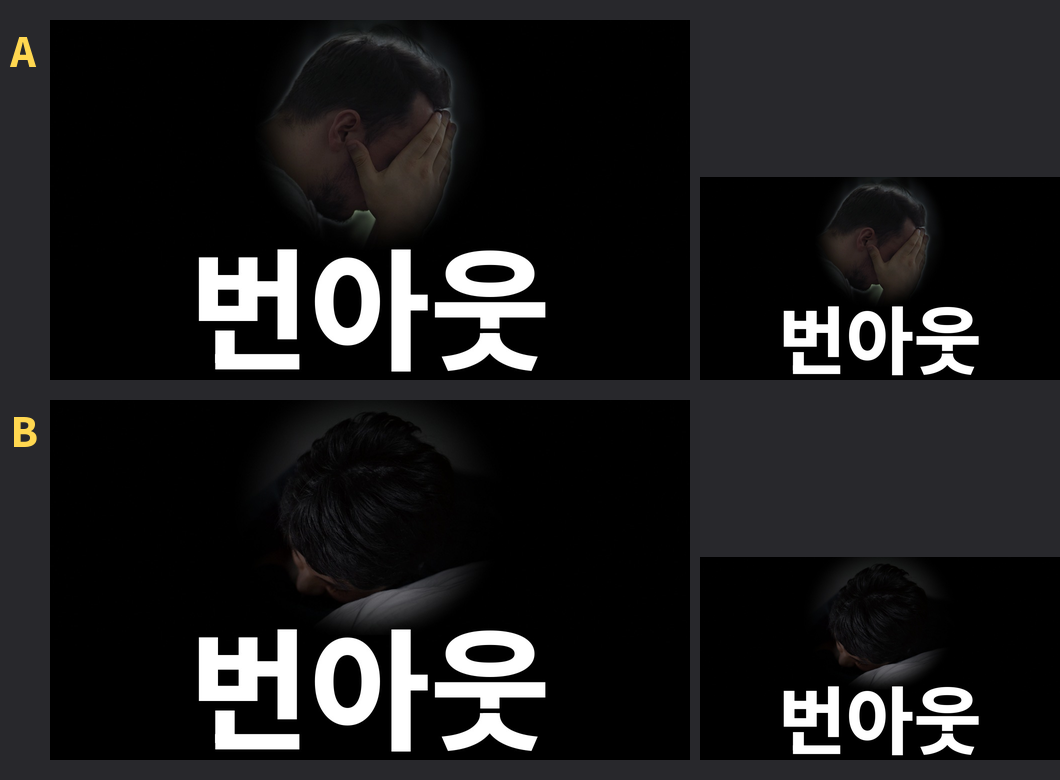
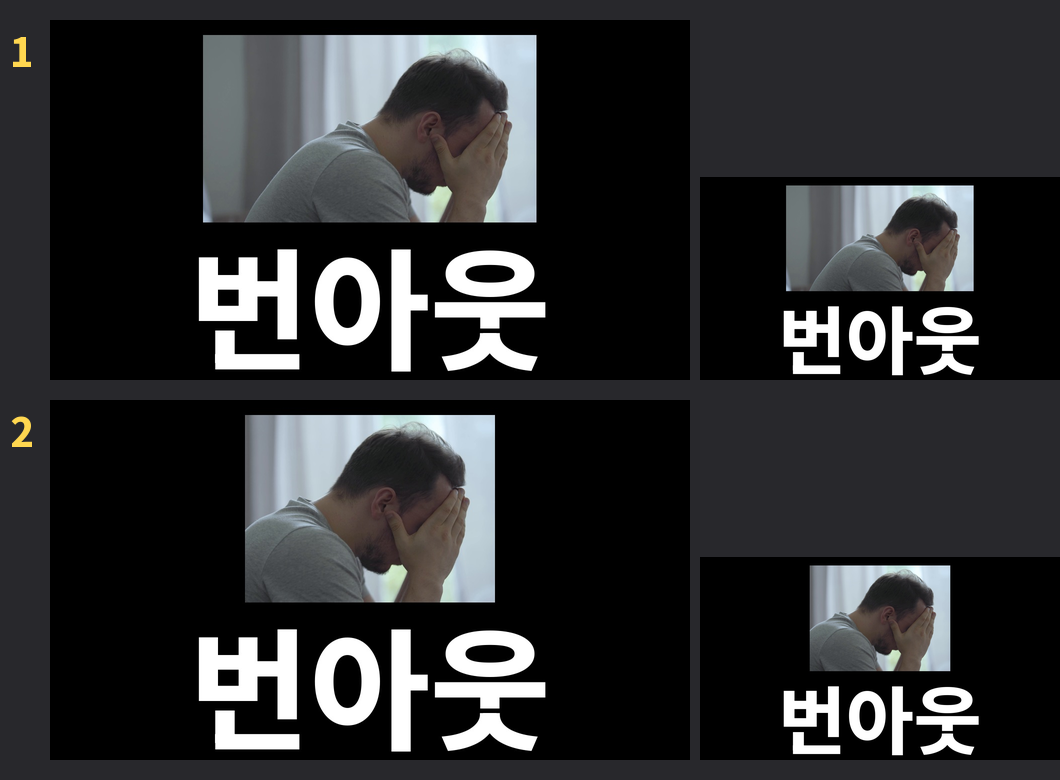
썸네일: 그림은 효과 없이 원본 그대로 (사용자 지시), 목소리 복제 조사 기록
- thumb.py: 가장자리 검게 녹이기·아래쪽 사라지기·어둡게 보정·노이즈를 빼고 원본 그림을 사각형으로 붙임(--top/--bottom), 비교 시트 번호(--labels)
- 시안: 1 원본 화면 전체(16:9), 2 사람 중심 4:3(추천). 이전 효과 시안은 삭제(커밋 8e035d4에 남음)
- HANDOFF_VIDEO.md: 18장에 효과 없음 규칙 반영, 19장 운영자 목소리 복제 조사(검토 중) 추가

Claude-Session: https://claude.ai/code/session_01EsiSLBYHgBfcisVVmTEd5s

diff --git a/video/burnout/scripts/thumb.py b/video/burnout/scripts/thumb.py
@@ -1,24 +1,23 @@
-# 「INFJ입니다.」 썸네일 (2026-10-22): 「F의 연애」 썸네일 틀을 그대로 따름(사용자 지시)
-# 검은 배경 + 위 두 칸(y 0~480)에 그림 하나(크게, 기울이지 않음)
+# 「INFJ입니다.」 썸네일 (2026-10-22): 「F의 연애」 썸네일 틀을 따름(사용자 지시)
+# 검은 배경 + 위 두 칸에 그림 하나(원본 그대로, 기울이지 않음)
 # + 아래 한 칸에 주제 단어 한 단어(흰색, Noto Sans KR 800, 262px, 바닥선 y=679, 글자 높이 240px 이상). 1280x720 JPG.
 # 가운데 그림: 좌절하거나 지친 사람(2026-10-22 사용자 지시). 얼굴은 보이지 않게(손으로 가림, 엎드림, 뒷모습, 실루엣).
-# 공통 함수(bottom_fade, put_word, finish, noto)는 「F의 연애」 thumb.py·thumb_chat.py와 같은 값입니다.
+# 그림에는 그라데이션·효과를 넣지 않음(2026-10-22 사용자 지시): 가장자리 검게 녹이기, 아래쪽 사라지기,
+# 어둡게 보정, 노이즈 없이 원본을 사각형 그대로 붙임. 주제 단어 함수(put_word)는 「F의 연애」와 같은 값입니다.
 #
 # usage (저장소 맨 위 폴더에서):
-#   thumb.py photo   OUT.jpg IMAGE --box x0,y0,x1,y1 [--word 번아웃] [--height 520] [--gamma 1.45] [--bg-dark 0~1]
-#       사진(무료 라이선스 스톡 영상의 한 장면, 검토 받은 AI 이미지)의 box 부분을 위 두 칸 가운데에 두고
-#       가장자리를 검게 녹임. --height: 그림 높이(사람과 글자 사이가 50px 이상 남게 조절)
-#       --bg-dark: 밝고 색이 옅은 배경(창문, 흰 벽)만 눌러 어두운 방처럼 만듦(피부색은 유지)
-#   thumb.py preview SHEET.png A.jpg B.jpg ...
+#   thumb.py photo   OUT.jpg IMAGE --box x0,y0,x1,y1 [--word 번아웃] [--top 30] [--bottom 405]
+#       사진(무료 라이선스 스톡 영상의 한 장면, 검토 받은 AI 이미지)의 box 부분을 원본 그대로
+#       y=top~bottom 높이에 맞춰 가로 가운데에 붙임. bottom은 글자 윗선(번아웃 459)보다 50px 이상 위
+#   thumb.py preview SHEET.png A.jpg B.jpg ... [--labels 1,2]
 #       시안마다 원래 크기 축소(640)와 휴대폰 피드 크기(가로 360)를 나란히 놓은 검토용 한 장
 # fonts/NotoSansKR-VF.ttf (OFL) 필요: setup.sh가 받습니다.
 import os, sys
-import numpy as np
 from PIL import Image, ImageDraw, ImageFilter, ImageFont
 
 ROOT = os.environ.get("VIDEO_ROOT", os.path.dirname(os.path.dirname(os.path.abspath(__file__))))
 FONT = f"{ROOT}/fonts/NotoSansKR-VF.ttf"
-W, H, S = 1280, 720, 2                                   # draw at 2x, then downsample
+W, H = 1280, 720
 COLORS = {"white": (255, 255, 255), "red": (230, 40, 48)}
 WORD_SIZE, WORD_BASE, WORD_WEIGHT = 262, 679, 800        # 「F의 연애」와 같음. "번아웃" 높이 246px, 너비 723px
 
@@ -28,15 +27,6 @@ def noto(weight, size):
     f = ImageFont.truetype(FONT, size)
     f.set_variation_by_axes([weight])
     return f
-
-
-def bottom_fade(img, y0, y1):
-    """Fade the picture to black from y0 to y1 so the word sits on black."""
-    a = np.asarray(img, np.float32)
-    g = np.clip((np.arange(img.height, dtype=np.float32) - y0) / (y1 - y0), 0, 1)
-    g = g * g * (3 - 2 * g)
-    a *= (1 - g)[:, None, None]
-    return Image.fromarray(a.round().astype(np.uint8), "RGB")
 
 
 def put_word(img, word, color="white"):
@@ -50,49 +40,20 @@ def put_word(img, word, color="white"):
     return img
 
 
-def finish(img):
-    """Edges fall off to black (dark room), faint noise, downsample to 1280x720."""
-    CW, CH = img.size
-    a = np.asarray(img, np.float32)
-    yy, xx = np.mgrid[0:CH, 0:CW].astype(np.float32)
-    r = np.sqrt(((xx - 0.50 * CW) / (0.64 * CW)) ** 2 + ((yy - 0.38 * CH) / (0.64 * CH)) ** 2)
-    v = np.clip(1 - (r - 0.62) / 0.45, 0, 1)
-    a *= (v * v * (3 - 2 * v))[..., None]
-    a += np.random.default_rng(3).normal(0, 1.2, a.shape)
-    return Image.fromarray(np.clip(a, 0, 255).astype(np.uint8)).resize((W, H), Image.LANCZOS)
-
-
-def make_photo(src, box, height=520, gamma=1.45, top=0, bg_dark=0.0):
-    """Part of a photo (box) centred in the top area; edges melt into black, colours muted, mids darker.
-    bg_dark (0~1): also press down bright, colourless areas (window, white wall) so a bright stock scene
-    reads as a dark room; skin keeps its colour."""
+def place_photo(src, box, top=30, bottom=405):
+    """The picture as is (no gradient, no effects): crop `box`, scale to the height top~bottom, centre on black."""
     im = Image.open(src).convert("RGB").crop(box)
-    sc = height / im.height
-    im = im.resize((round(im.width * sc), height), Image.LANCZOS)
-    a = np.asarray(im, np.float32) / 255
-    lum = a @ np.array([0.2126, 0.7152, 0.0722], np.float32)
-    if bg_dark:
-        sat = (a.max(2) - a.min(2)) / (a.max(2) + 1e-6)
-        sm = lambda x: (lambda c: c * c * (3 - 2 * c))(np.clip(x, 0, 1))
-        m = sm((lum - 0.45) / 0.30) * (1 - sm((sat - 0.08) / 0.17))
-        m = np.asarray(Image.fromarray((m * 255).astype(np.uint8)).filter(ImageFilter.GaussianBlur(6)), np.float32) / 255
-        a *= (1 - bg_dark * m)[..., None]
-        lum = a @ np.array([0.2126, 0.7152, 0.0722], np.float32)
-    a = lum[..., None] + (a - lum[..., None]) * 0.85
-    a = np.clip(a, 0, 1) ** gamma
-    h, w = lum.shape
-    yy, xx = np.mgrid[0:h, 0:w].astype(np.float32)
-    r = np.sqrt(((xx - w / 2) / (w * 0.50)) ** 2 + ((yy - h * 0.45) / (h * 0.56)) ** 2)
-    v = np.clip(1 - (r - 0.55) / 0.50, 0, 1)                         # wide soft oval, melts into black
-    a *= (v * v * (3 - 2 * v))[..., None]
+    h = bottom - top
+    im = im.resize((round(im.width * h / im.height), h), Image.LANCZOS)
+    if im.width > W:
+        sys.exit(f"picture is {im.width}px wide (> {W}): use a narrower --box")
     canvas = Image.new("RGB", (W, H), (0, 0, 0))
-    canvas.paste(Image.fromarray((np.clip(a, 0, 1) * 255).round().astype(np.uint8)), ((W - w) // 2, top))
-    big = canvas.resize((W * S, H * S), Image.LANCZOS)
-    return finish(big)
+    canvas.paste(im, ((W - im.width) // 2, top))
+    return canvas
 
 
-def preview(sheet, files):
-    """Each draft at 640 px next to the phone-feed size (360 px), with its letter."""
+def preview(sheet, files, labels=None):
+    """Each draft at 640 px next to the phone-feed size (360 px), with its label (A, B, C... by default)."""
     lab = noto(800, 40)
     out = Image.new("RGB", (640 + 360 + 60, len(files) * 380 + 20), (40, 40, 44))
     d = ImageDraw.Draw(out)
@@ -101,7 +62,7 @@ def preview(sheet, files):
         y = 20 + i * 380
         out.paste(im.resize((640, 360), Image.LANCZOS), (50, y))
         out.paste(im.resize((360, 203), Image.LANCZOS), (50 + 640 + 10, y + 157))
-        d.text((10, y), chr(ord("A") + i), font=lab, fill=(255, 215, 80))
+        d.text((10, y), labels[i] if labels else chr(ord("A") + i), font=lab, fill=(255, 215, 80))
     out.save(sheet)
 
 
@@ -110,12 +71,12 @@ if __name__ == "__main__":
     opt = lambda k, dflt: a[a.index(k) + 1] if k in a else dflt
     mode, out = a[0], a[1]
     if mode == "preview":
-        preview(out, a[2:]); print(out); sys.exit()
+        files = [x for x in a[2:] if x != "--labels" and x != opt("--labels", None)]
+        labels = opt("--labels", None)
+        preview(out, files, labels.split(",") if labels else None); print(out); sys.exit()
     if mode != "photo":
         sys.exit(f"unknown mode {mode}: use photo or preview")
     box = tuple(int(v) for v in opt("--box", "0,0,1920,1080").split(","))
-    img = make_photo(a[2], box, int(opt("--height", "520")), float(opt("--gamma", "1.45")),
-                     bg_dark=float(opt("--bg-dark", "0")))
-    img = bottom_fade(img, 430, 560)
+    img = place_photo(a[2], box, int(opt("--top", "30")), int(opt("--bottom", "405")))
     put_word(img, opt("--word", "번아웃"), opt("--color", "white")).save(out, quality=93)
     print(out)

diff --git a/video/burnout/HANDOFF_VIDEO.md b/video/burnout/HANDOFF_VIDEO.md
@@ -24,7 +24,8 @@
 5. 사용자는 휴대폰으로 봅니다. 답은 짧게, 결론부터, 정중한 한국어로 씁니다.
 6. 스톡 사진·영상이 부적절하거나 어색한 장면은 AI 이미지로 직접 만들고, 영상에 넣기 전에 사용자 검토를 받습니다(15장).
 7. 사례 구간(⑥)의 감자 캐릭터는 다음 세션에서 사용자와 함께 만듭니다(16장). 혼자 정해서 만들지 않습니다.
-8. 썸네일은 「F의 연애」 썸네일 틀로 만들고, 가운데 그림은 좌절하거나 지친 사람(얼굴이 보이지 않게)입니다(18장).
+8. 썸네일은 「F의 연애」 썸네일 틀로 만들고, 가운데 그림은 좌절하거나 지친 사람(얼굴이 보이지 않게)입니다. 그림에는 그라데이션이나 효과를 넣지 않고 원본 그대로 넣습니다(18장).
+9. 운영자 목소리를 학습한 AI로 완전 자동화하는 방안을 검토 중입니다. 조건은 '진짜 내 목소리 같고 AI 티가 안 날 것'입니다(19장, 결정 전).
 
 ---
 
@@ -45,7 +46,7 @@
 9. 참고 결과물(저장소 episodes/burnout/)
    - sample30/burnout_30s_stock_example.mp4: 확정된 방식의 기준 예시, 31.6초
    - sample/burnout_hook_sample.mp4: 이전 방식(AI 이미지 + 임시 음성), 지금은 쓰지 않음
-10. 썸네일: 검은 배경, 위 두 칸에 좌절하거나 지친 사람(얼굴이 보이지 않게), 아래 한 칸에 흰 글씨 한 단어(18장)
+10. 썸네일: 검은 배경, 위 두 칸에 좌절하거나 지친 사람(얼굴이 보이지 않게, 그림은 효과 없이 원본 그대로), 아래 한 칸에 흰 글씨 한 단어(18장)
 
 ---
 
@@ -66,6 +67,8 @@
 9. 스톡 사진·영상이 부적절하거나 어색하면 AI 이미지로 직접 만들고 검토를 받습니다(2026-10-22). 절차는 15장입니다.
 10. 썸네일은 「F의 연애」 썸네일 방식으로 만들고, 첫 영상인 번아웃 편부터 적용합니다(2026-10-22). 18장입니다.
 11. 썸네일 가운데 그림은 좌절하고 있는 사람이나 지친 사람으로 합니다(2026-10-22).
+12. 썸네일 그림에는 그라데이션이나 효과를 넣지 않고 그림만 넣습니다(2026-10-22).
+13. 운영자 목소리를 학습시킨 AI로 완전 자동화를 해 보려 합니다. 복제 목소리는 진짜 운영자 목소리와 비슷하고 AI 티가 전혀 나지 않아야 합니다(2026-10-22). 도구는 아직 고르지 않았습니다(19장).
 
 ### 2-2. 답변 방식 (채널 핸드오프 1장)
 1. 정중한 존댓말 한국어로, 결론부터 씁니다.
@@ -565,17 +568,18 @@ Mixkit 파일 주소 형식
    - 채널 핸드오프 5-3의 '캐릭터 표정 + 4~8자 문구'
    - 번아웃 편의 이전 안(채널 핸드오프 10장 안의 7-1: 1안 "충전의 역설", 2안 "쉬어도 그대로")
    - 처음 만든 사물 시안(알람 목록, 배터리)은 보여 드리기 전에 2번 지시에 따라 바꿨습니다.
-4. 수치·점검·진행 순서는 「F의 연애」 썸네일 핸드오프를 그대로 따릅니다. 다른 점은 18-3의 가운데 그림입니다.
+4. 수치·점검·진행 순서는 「F의 연애」 썸네일 핸드오프를 따릅니다. 다른 점은 가운데 그림(18-3)과 그림 처리(5번)입니다.
+5. 그림에는 그라데이션이나 효과를 넣지 않고 그림만 넣습니다(같은 날 사용자 지시). 처음 시안의 가장자리 검게 녹이기·어둡게 보정은 이 지시로 뺐습니다.
 
 ### 18-2. 틀 (「F의 연애」 3장 수치)
 1. 1280×720 JPG, 검은 배경
-2. 화면 높이를 셋으로 나눈 위 두 칸(y 0~480)에 그림 하나를 크게, 기울이지 않고 둡니다.
+2. 화면 높이를 셋으로 나눈 위 두 칸에 그림 하나를 원본 그대로 사각형으로 둡니다. 기본 위치는 y=30~405, 가로 가운데입니다. 기울이지 않습니다.
 3. 아래 한 칸에 주제 단어 한 단어(2~3글자)
    - 흰색, Noto Sans KR 가변 글꼴 굵기 800, 262px, 가운데 정렬, 글자 바닥선 y=679
    - 글자 높이 240px 이상. "번아웃"은 높이 246px, 너비 723px이고 글자 윗선이 y=459입니다.
    - 글자 아래 그림자: 아래로 6px, 흐림 14px
    - 빨간색(230, 40, 48)도 고를 수 있지만 기본은 흰색입니다.
-4. 사진 아래쪽은 y=430~560에서 검게 사라지게 하고(「F의 연애」 사진 방식은 430~580), 가장자리는 어두운 방처럼 검게 감쌉니다. 노이즈는 아주 약하게만 넣습니다.
+4. 그림에는 그라데이션·효과를 넣지 않습니다. 가장자리 검게 녹이기, 아래쪽 사라지기, 어둡게 보정, 노이즈를 모두 쓰지 않습니다(「F의 연애」 3-1의 3·4번과 다른 점). 원본에서 쓸 부분을 자르고(--box) 크기만 맞춥니다.
 5. 그림 속 사람(머리·손 끝)과 글자 윗선 사이는 50px 이상 둡니다(「F의 연애」 6장 점검).
 6. 단어가 길어 글자를 줄여야 하면 높이 규칙과 부딪히므로 사용자에게 먼저 묻습니다(「F의 연애」 3-2).
 
@@ -585,7 +589,7 @@ Mixkit 파일 주소 형식
 2. 재료 순서
    1. Mixkit 무료(Free) 스톡 영상의 한 장면. 영상 페이지에서 라이선스를 확인합니다(5장).
    2. 스톡이 마땅치 않거나 어색하면 AI 이미지를 만들고 15장 절차로 검토를 받습니다. 사진풍 AI 이미지를 썸네일에 쓰면 업로드 때 '변경되거나 합성된 콘텐츠'를 '예'로 체크합니다(5-3).
-3. 창가나 흰 벽처럼 밝은 스톡 장면은 thumb.py의 --bg-dark로 밝고 색이 옅은 부분만 눌러 어두운 방처럼 만듭니다. 피부색은 유지됩니다.
+3. 그림을 보정하지 않으므로, 장면을 고를 때부터 사람이 크고 분명하게 보이는 장면을 고릅니다. 어두운 장면은 휴대폰 크기에서 알아보기 어렵습니다(51394 베개 장면이 그랬습니다).
 4. 2026-10-22에 라이선스를 확인한 스톡
    - Free: 4701(두 손으로 얼굴을 감싼 남성, 30초 예시에도 씀), 51394(어두운 방에서 베개에 얼굴을 묻은 사람, 32.0초 부근), 4500(바닥에서 무릎을 안은 여성. 사람이 작고 초점이 흐리며, 앞에 체중계가 있어 제외), 4513(쿠션을 안은 여성, 얼굴이 보여 제외)
    - Restricted(쓸 수 없음): 24055, 24063, 29961, 23288, 28748(모두 사무실에서 지친 사람)
@@ -594,11 +598,10 @@ Mixkit 파일 주소 형식
 
 ### 18-4. 만드는 법 (저장소 맨 위 폴더에서)
 1. 장면 한 장 뽑기: `ffmpeg -ss 1.4 -i work/stock/full/4701.mp4 -frames:v 1 work/f4701_1.4.png`
-2. 시안 만들기: `venv/bin/python scripts/thumb.py photo episodes/burnout/thumbnail/drafts/A_head_in_hands.jpg work/f4701_1.4.png --box 920,60,1900,1040 --height 460 --gamma 1.35 --bg-dark 0.85`
-   - --box: 원본에서 쓸 부분(사람이 가운데 오게)
-   - --height: 그림 높이(사람과 글자 사이 50px 이상이 되게)
-   - --gamma: 클수록 어둡습니다. 원래 어두운 장면은 0.95~1.1
-3. 검토용 한 장: `venv/bin/python scripts/thumb.py preview work/thumb_review.png A.jpg B.jpg C.jpg`
+2. 시안 만들기: `venv/bin/python scripts/thumb.py photo episodes/burnout/thumbnail/drafts/2_person_crop.jpg work/f4701_1.4.png --box 533,40,1920,1080`
+   - --box: 원본에서 쓸 부분(사람이 크게, 가운데 오게). 원본 전체는 0,0,1920,1080
+   - --top, --bottom: 그림이 놓일 높이(기본 30, 405). bottom은 글자 윗선(번아웃 459)보다 50px 이상 위
+3. 검토용 한 장: `venv/bin/python scripts/thumb.py preview work/thumb_review.png 1.jpg 2.jpg --labels 1,2`
 4. 점검
    - 1280×720인지, 글자 높이가 240px 이상인지
    - 사람과 글자 사이가 50px 이상인지
@@ -610,10 +613,58 @@ Mixkit 파일 주소 형식
 ### 18-5. 번아웃 편 (2026-10-22)
 1. 주제 단어: "번아웃"(흰색)
 2. 시안(episodes/burnout/thumbnail/drafts/, 출처와 명령은 같은 폴더의 README.md)
-   - A_head_in_hands.jpg: 두 손으로 얼굴을 감싼 남성(Mixkit 4701, 1.4초). 추천안입니다. 휴대폰 크기에서도 좌절한 모습이 바로 읽히고, 얼굴은 손에 가려 보이지 않으며, 30초 예시에 나온 장면이라 본편과 이어집니다.
-   - B_face_in_pillow.jpg: 어두운 방에서 베개에 얼굴을 묻은 사람(Mixkit 51394, 32.0초). 휴대폰 크기에서는 사람으로 알아보기 어렵습니다.
+   - 1_full_frame.jpg: Mixkit 4701(두 손으로 얼굴을 감싼 남성)의 1.4초 장면을 원본 화면 전체(16:9) 그대로, 효과 없음
+   - 2_person_crop.jpg: 같은 장면을 사람 중심으로 자른 4:3, 효과 없음. 추천안입니다. 휴대폰 크기에서 사람이 더 크게 보입니다.
    - review_sheet.png: 두 시안을 640px와 휴대폰 피드 크기(360px)로 비교
+   - 이전 시안(가장자리를 검게 녹인 A, 베개 B)은 '효과 없이' 지시로 대체해 지웠습니다. 커밋 8e035d4에 남아 있습니다.
 3. AI 시도(쓰지 않음): 밤 책상의 지친 한국인 직장인을 gen.py로 2장 만들었습니다(시드 511·512, 지시문에 face hidden, 부정 문구에 visible face). 두 장 모두 얼굴이 보였고 511에는 노트북 로고도 있어 제외했습니다.
    - 다시 만든다면 얼굴을 가리라는 말 대신 뒷모습 구도(seen from behind)로 지시합니다(추론: 구도로 얼굴이 나올 여지를 없애는 편이 확실함).
    - 이 세션에서는 모델 불러오기에 615.8초(디스크가 느림), 한 장에 약 130초가 걸렸습니다(AMX 있음).
 4. 상태: 사용자 선택 대기. 고르면 thumbnail.jpg로 확정하고 이 항목을 고칩니다.
+
+---
+
+## 19. 운영자 목소리 복제 (검토 중, 2026-10-22 조사)
+
+### 19-1. 사용자 요청
+1. 운영자 목소리를 AI에 학습시켜 완전 자동화를 해 보려 합니다.
+2. 조건: 진짜 운영자 목소리와 비슷하고 AI 티가 전혀 나지 않을 것
+3. 아직 도구를 고르지 않았습니다. 고르기 전까지는 지금 방식(운영자 녹음)을 유지하고, 이 세션에서 합성 음성을 만들지 않는다는 규칙(2-1의 1번)도 그대로입니다.
+
+### 19-2. 후보 (공식 페이지 확인, 2026-10-22)
+1. ElevenLabs 전문 복제(PVC): 1순위 후보
+   - 녹음 최소 30분, 권장 2~3시간. 한국어 지원. Creator(월 $22, 첫 달 $11)부터 1개
+   - 공식 문서: 더 많은 음성으로 '전용 모델'을 학습해 "원래 목소리와 거의 구별되지 않는" 결과를 낸다고 설명합니다(업체 주장). 간편 복제(IVC)는 전용 모델 없이 추측하는 방식이라고 적혀 있습니다.
+   - 자동화: API(/v1/text-to-speech/{voice_id}/with-timestamps)가 음성과 글자별 시작·끝 시각을 함께 돌려줘서, align.py 없이 자막 시각을 바로 만들 수 있습니다.
+2. 타입캐스트 프리미엄 클로닝: 한국어 비교 후보
+   - 약 5분 녹음, 플러스(월 ₩29,000)부터. 퀵 클로닝(약 1분, 베이직 월 ₩9,900)보다 발음·억양을 세밀하게 담는다고 설명합니다(자사 블로그).
+   - 복제 API(POST /v1/voices/clone, 5~150초)와 TTS API가 있습니다. API 요금은 구독과 따로입니다.
+3. 그 밖: MiniMax(API 단가가 낮음, 2차 자료), Vrew 'AI 내 목소리'(상업 이용 가능, API는 확인하지 못함), GPT-SoVITS(무료 오픈소스, 한국어 지원)
+4. 쓰지 않음: 수퍼톤 Play(HYBE가 2026년 7월 수퍼톤 사업 정리 발표, Play 페이지는 다른 도메인으로 넘어가 404). 클로바더빙은 내 목소리 기능을 확인하지 못했습니다.
+5. 한국어 전문 복제의 자연스러움을 독립적으로 평가한 자료는 찾지 못했습니다. 운영자 목소리로 직접 시험해야 합니다.
+
+### 19-3. AI 티를 줄이는 방법
+1. 학습 녹음은 영상 내레이션과 같은 말투·속도로, 조용한 방에서 같은 마이크·같은 거리로 녹음합니다. 한 사람 목소리만, 배경 소음 없이(ElevenLabs PVC 안내).
+2. 대본을 읽은 녹음이 가장 좋은 학습 재료입니다(추론: 결과 말투가 학습 녹음 말투를 따르므로). 번아웃 편 대본(4,793자)은 빠른 템포로 약 9분 분량입니다.
+3. 숫자·영어·약어는 한글로 풀어 쓴 대본을 넣으면 잘못 읽는 일이 줄어듭니다(추론).
+4. 판단 방법: 진짜 녹음과 복제 음성을 섞어 들려주고 가족·지인이 구별하는지 보는 블라인드 시험을 합니다. 이 세션의 AI는 소리를 직접 듣고 자연스러움을 판단할 수 없습니다.
+
+### 19-4. 정책 (5장과 함께 봄)
+1. 자기 목소리를 복제한 내레이션은 유튜브의 '변경되거나 합성된 콘텐츠' 표시 대상이 아닙니다(유튜브 도움말의 표시 불필요 예시).
+2. 2026년 7월 수익 정책: 틀에 찍어낸 대량생산 영상, 실존 인물을 본뜬 AI가 금융·법률·의료 같은 민감 주제를 다루는 영상은 수익 제외입니다(TechCrunch 2026-07-20 보도). 본인 복제 목소리가 여기에 해당하는지는 불분명합니다.
+3. 그래서 완전 자동화라도 대본과 편집에 운영자의 손길이 분명히 남게 합니다(추론: 위 정책 문구에서 연역).
+
+### 19-5. 출처
+- ElevenLabs 전문 복제: https://elevenlabs.io/docs/product-guides/voices/voice-cloning/professional-voice-cloning
+- ElevenLabs 복제 방식 비교: https://elevenlabs.io/docs/product-guides/voices/voice-cloning
+- ElevenLabs 요금: https://elevenlabs.io/pricing
+- ElevenLabs 글자별 시각 API: https://elevenlabs.io/docs/api-reference/text-to-speech/convert-with-timestamps
+- 타입캐스트 요금: https://typecast.ai/kr/pricing
+- 타입캐스트 복제 API: https://typecast.ai/docs/api-reference/voices/instant-cloning.md
+- 타입캐스트 클로닝 비교(자사 블로그): https://typecast.ai/kr/learn/voice-cloning-services-comparison/
+- Vrew 상업 이용: https://docs.channel.io/vrew-kr/ko/articles/%EC%83%81%EC%97%85-%EC%9D%B4%EC%9A%A9-AI-%EB%AA%A9%EC%86%8C%EB%A6%AC%EB%A5%BC-%EC%83%81%EC%97%85%EC%A0%81%EC%9D%B8-%EC%9A%A9%EB%8F%84%EB%A1%9C-%EC%82%AC%EC%9A%A9%ED%95%A0-%EC%88%98-%EC%9E%88%EC%9D%84%EA%B9%8C%EC%9A%94-addbf954
+- GPT-SoVITS: https://github.com/RVC-Boss/GPT-SoVITS
+- MiniMax 가격(2차 자료): https://www.gradually.ai/en/ai-models/minimax-speech-2-8/
+- 수퍼톤 사업 정리 보도: https://www.production-expert.com/production-expert-1/hybe-announces-transfer-of-ownership-of-some-supertone-products-including-clear-to-antinode-audio-inc
+- 유튜브 합성 콘텐츠 표시: https://support.google.com/youtube/answer/14328491
+- 2026년 7월 수익 정책 보도: https://techcrunch.com/2026/07/20/youtube-clarifies-policies-around-ai-slop-and-upsetting-videos/

diff --git a/video/burnout/thumbnail/README.md b/video/burnout/thumbnail/README.md
@@ -1,22 +1,19 @@
 # 번아웃 편 썸네일
 
-2026-10-22 사용자 지시로 「F의 연애」 썸네일 틀을 적용했습니다. 가운데 그림은 좌절하거나 지친 사람이고, 얼굴은 보이지 않게 했습니다(HANDOFF_VIDEO.md 18장).
+2026-10-22 사용자 지시로 「F의 연애」 썸네일 틀을 적용했습니다. 가운데 그림은 좌절하거나 지친 사람이고, 얼굴은 보이지 않게 했습니다. 그림에는 그라데이션이나 효과를 넣지 않고 원본 그대로 넣었습니다(HANDOFF_VIDEO.md 18장).
 
-- drafts/A_head_in_hands.jpg: 두 손으로 얼굴을 감싼 남성 + "번아웃". 추천안
-  - 장면: Mixkit 4701 "Worried and sad man with his head down"의 1.4초(https://mixkit.co/free-stock-video/worried-and-sad-man-with-his-head-down-4701/), 라이선스 Free(2026-10-22 영상 페이지에서 확인)
-  - 밝은 창가 배경은 --bg-dark로 눌러 어두운 방처럼 만들었습니다.
-- drafts/B_face_in_pillow.jpg: 어두운 방에서 베개에 얼굴을 묻은 사람 + "번아웃"
-  - 장면: Mixkit 51394 "Woman with insomnia lying in her bed trying to sleep"의 32.0초(https://mixkit.co/free-stock-video/woman-with-insomnia-lying-in-her-bed-trying-to-sleep-51394/), 라이선스 Free(2026-10-22 확인)
-  - 휴대폰 피드 크기에서는 사람으로 알아보기 어렵습니다.
+- drafts/1_full_frame.jpg: 두 손으로 얼굴을 감싼 남성, 원본 화면 전체(16:9) + "번아웃"
+- drafts/2_person_crop.jpg: 같은 장면을 사람 중심으로 자른 4:3 + "번아웃". 추천안(휴대폰 크기에서 사람이 더 크게 보임)
+- 장면: Mixkit 4701 "Worried and sad man with his head down"의 1.4초(https://mixkit.co/free-stock-video/worried-and-sad-man-with-his-head-down-4701/), 라이선스 Free(2026-10-22 영상 페이지에서 확인)
 - drafts/review_sheet.png: 두 시안을 640px와 휴대폰 피드 크기(360px)로 비교
-- AI 시안은 두 장 모두 얼굴이 보여 쓰지 않았습니다(HANDOFF_VIDEO.md 18-5).
+- 이전 시안(가장자리를 검게 녹인 판, 베개 장면)은 '효과 없이' 지시로 지웠습니다. 커밋 8e035d4에 남아 있습니다.
 - 사용자가 고르면 thumbnail.jpg로 확정합니다.
 
 다시 만드는 명령(저장소 맨 위 폴더에서. news-desk 저장소에서는 video/burnout/에서 실행하고 경로의 episodes/burnout/을 뺍니다)
 ```
-episodes/burnout/sample30/fetch_stock.sh    # 4701.mp4, 51394.mp4 받기(30초 예시와 같은 파일)
+episodes/burnout/sample30/fetch_stock.sh    # 4701.mp4 받기(30초 예시와 같은 파일)
 ffmpeg -ss 1.4 -i work/stock/full/4701.mp4 -frames:v 1 work/f4701_1.4.png
-venv/bin/python scripts/thumb.py photo episodes/burnout/thumbnail/drafts/A_head_in_hands.jpg work/f4701_1.4.png --box 920,60,1900,1040 --height 460 --gamma 1.35 --bg-dark 0.85
-ffmpeg -ss 32.0 -i work/stock/full/51394.mp4 -frames:v 1 work/f51394_32.0.png
-venv/bin/python scripts/thumb.py photo episodes/burnout/thumbnail/drafts/B_face_in_pillow.jpg work/f51394_32.0.png --box 380,40,1480,1000 --height 470 --gamma 0.95
+venv/bin/python scripts/thumb.py photo episodes/burnout/thumbnail/drafts/1_full_frame.jpg work/f4701_1.4.png --box 0,0,1920,1080
+venv/bin/python scripts/thumb.py photo episodes/burnout/thumbnail/drafts/2_person_crop.jpg work/f4701_1.4.png --box 533,40,1920,1080
+venv/bin/python scripts/thumb.py preview episodes/burnout/thumbnail/drafts/review_sheet.png episodes/burnout/thumbnail/drafts/1_full_frame.jpg episodes/burnout/thumbnail/drafts/2_person_crop.jpg --labels 1,2
 ```

diff --git a/video/burnout/README.md b/video/burnout/README.md
@@ -5,7 +5,7 @@
 - sample/: 초반 11.6초, AI 이미지 + 임시 음성 (2026-10-21)
 - sample30/: 30초 예시, 스톡 영상 + 아이콘 화면, 빠른 템포, 목소리 자리 비움 (2026-10-22, 사용자 요청 반영: 본인 목소리, 더 빠른 템포, AI만 쓰면 이질감 → 스톡 섞기). 자세한 기록은 sample30/credits.md
 - HANDOFF_VIDEO.md: 확정된 제작 방식 전체 핸드오프(다른 대화창에서 같은 영상을 만들 때 이 문서부터)
-- thumbnail/: 번아웃 편 썸네일 시안. 「F의 연애」 썸네일 틀, 가운데 그림은 좌절하거나 지친 사람(2026-10-22 사용자 지시). 만드는 법은 HANDOFF_VIDEO.md 18장, 도구는 scripts/thumb.py
+- thumbnail/: 번아웃 편 썸네일 시안. 「F의 연애」 썸네일 틀, 가운데 그림은 좌절하거나 지친 사람, 그림은 효과 없이 원본 그대로(2026-10-22 사용자 지시). 만드는 법은 HANDOFF_VIDEO.md 18장, 도구는 scripts/thumb.py
 - 새 도구(2026-10-22): estimate_timing.py(녹음 전 글자 수로 시각 추정), make_bgm.py(배경음악 자르기·음량), mix_audio.py(녹음+배경음악 섞기, -14 LUFS). setup.sh는 기본 설치에서 AI 모델을 빼고 WITH_AI=1일 때만 받습니다.
 
 작업 규칙(2026-10-22 사용자 지시): 임시 음성(합성 음성)은 만들지 않습니다. 녹음 전에 자막 시각이 필요하면 글자 수로 추정합니다(분당 약 527자). 녹음본이 오면 align.py·refine.py로 그 녹음에 맞춥니다.
